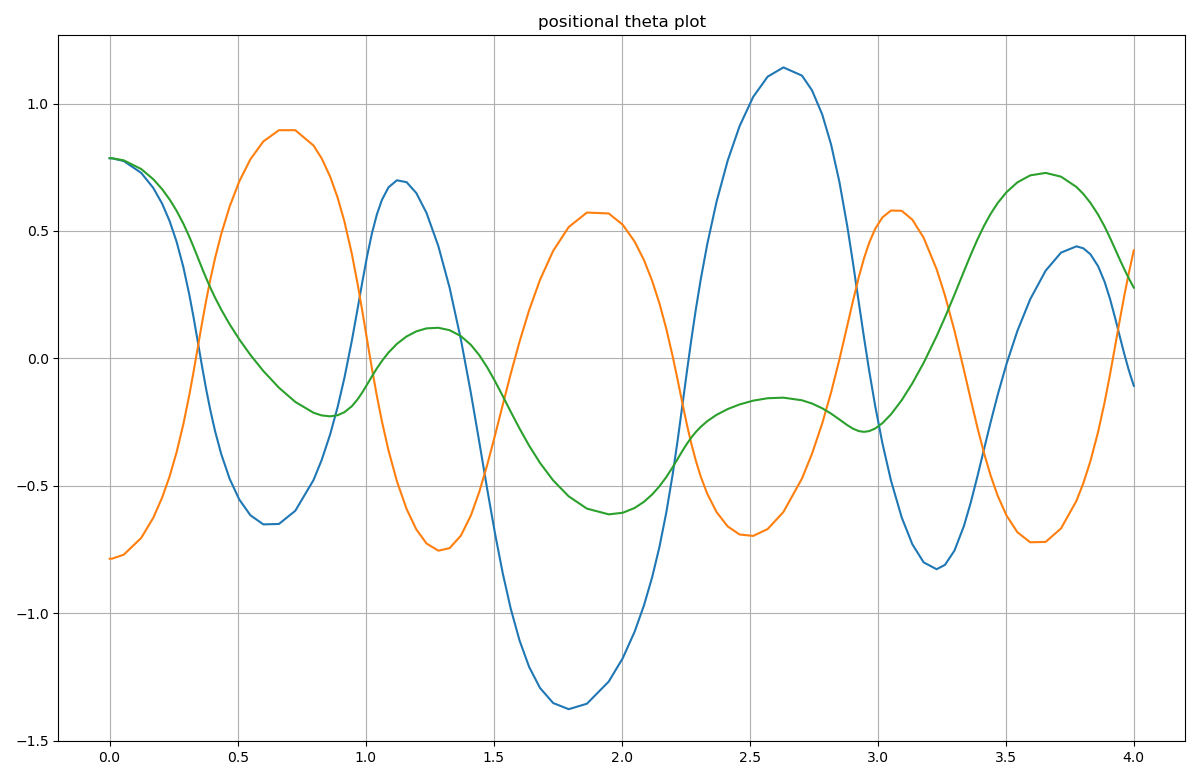
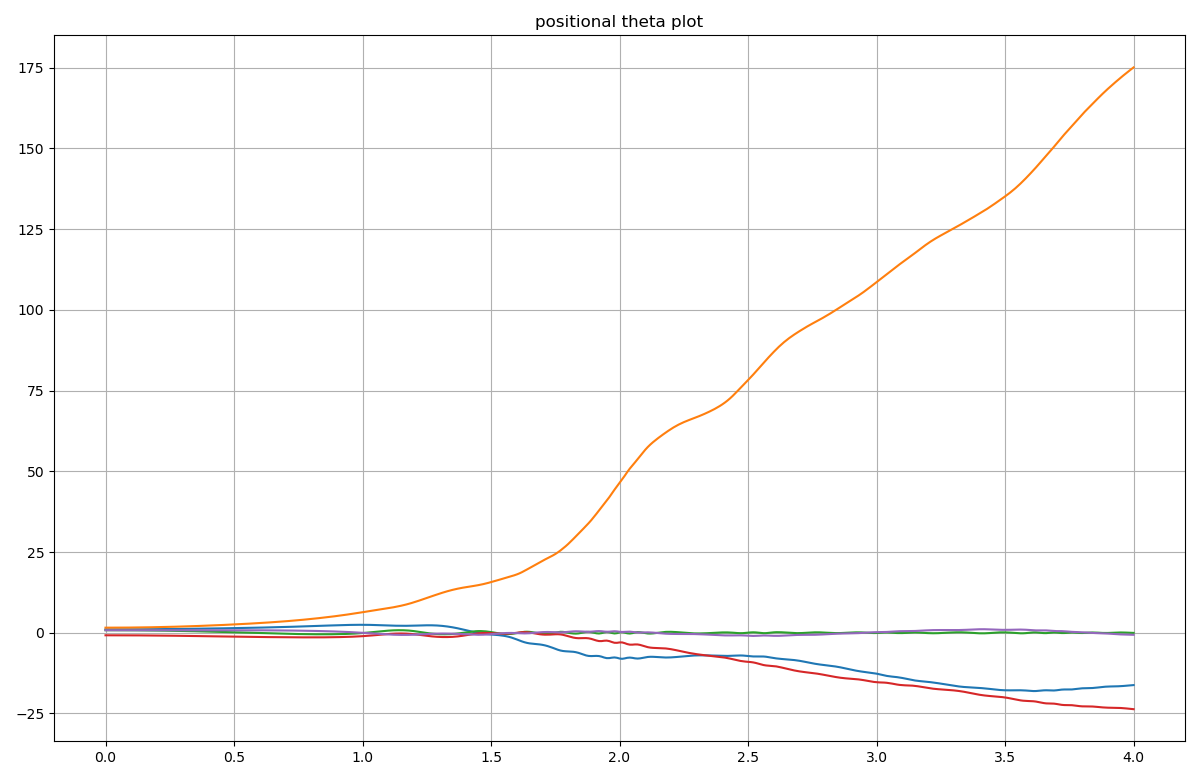
tree runs but doesn't work

diff --git a/src/Tree_forward_dynamics.cpp b/src/Tree_forward_dynamics.cpp
@@ -23,16 +23,15 @@ void SystemOfBodies::EOM__forward_tree(const std::vector<double> &y,
   // dofs of each body
   to_arma_vec(y, p);
 
+  // Sets system gravity, currently hard-coded should ideally be more general.
   p.accel[n](4) = system_gravity;
 
-  // Calling the methods
   const std::vector<std::vector<arma::mat::fixed<6, 6>>> spatial_operator_dt =
       find_spatial_operator_tree(p.theta);
 
   // now we start sweeping n times in total, first kinematics which has in part
   // already been done through the spatial operator, but now velocities
 
-  // the current form is pretty nasty - should consider a rewrite eventually
   for (int k = n - 1; k > -1; --k) {
     p.body_velocities[k] =
         spatial_operator_dt[bodies[k]->parent_ID][get_child_index(k)].t() *
@@ -65,8 +64,8 @@ void SystemOfBodies::EOM__forward_tree(const std::vector<double> &y,
   for (int k = n - 1; k > -1; --k) {
 
     p.accel_plus[k] =
-        spatial_operator_dt[bodies[k]->parent_ID + 1][get_child_index(k)].t() *
-        p.accel[k + 1];
+        spatial_operator_dt[bodies[k]->parent_ID][get_child_index(k)].t() *
+        p.accel[bodies[k]->parent_ID - 1];
     p.theta_ddot[k] = p.frac_v[k] - p.G_fractal[k].t() * p.accel_plus[k];
     p.accel[k] = p.accel_plus[k] +
                  bodies[k]->transpose_hinge_map * p.theta_ddot[k] +
@@ -226,6 +225,8 @@ SystemOfBodies::find_spatial_operator_tree(
   return spatial_operator;
 }
 
+// This method gets the index of a child's id as it is stored in the parent's
+// outboard vector.
 int SystemOfBodies::get_child_index(const int &k_index) const {
   if (k_index >= n - 1) {
     return 0;
@@ -240,21 +241,29 @@ int SystemOfBodies::get_child_index(const int &k_index) const {
   return i;
 }
 
+// int SystemOfBodies::get_each_child(const int& k_index,)
+
 void SystemOfBodies::compute_J_fractal(
     const int &k, forward_parameters &p,
     const std::vector<std::vector<arma::mat::fixed<6, 6>>> &spatial_operator_dt)
     const {
-
-  if (bodies[k]->children_ID.size() == 1) {
+  if (bodies[k]->children_ID[0] == 0) {
     p.J_fractal[k] =
-        spatial_operator_dt[k][0] * p.J_fractal_plus[k] +
+        p.P[k] * coriolis_vector(bodies[k]->transpose_hinge_map,
+                                 p.body_velocities[k], p.theta_dot[k]) +
+        gyroscopic_force_z(bodies[k]->inertial_matrix, p.body_velocities[k]);
+  } else if (bodies[k]->children_ID.size() == 1) {
+    p.J_fractal[k] =
+        spatial_operator_dt[bodies[k]->children_ID[0]][0] *
+            p.J_fractal_plus[bodies[k]->children_ID[0] - 1] +
         p.P[k] * coriolis_vector(bodies[k]->transpose_hinge_map,
                                  p.body_velocities[k], p.theta_dot[k]) +
         gyroscopic_force_z(bodies[k]->inertial_matrix, p.body_velocities[k]);
   } else {
     p.J_fractal[k] = arma::zeros<arma::vec>(6);
     for (size_t i = 0; i < bodies[k]->children_ID.size(); ++i) {
-      p.J_fractal[k] += spatial_operator_dt[k][i] * p.J_fractal_plus[k];
+      p.J_fractal[k] += spatial_operator_dt[bodies[k]->children_ID[i]][0] *
+                        p.J_fractal_plus[bodies[k]->children_ID[i] - 1];
     }
     p.J_fractal[k] +=
         p.P[k] * coriolis_vector(bodies[k]->transpose_hinge_map,
@@ -267,16 +276,20 @@ void SystemOfBodies::compute_p(
     const int &k, forward_parameters &p,
     const std::vector<std::vector<arma::mat::fixed<6, 6>>> &spatial_operator_dt)
     const {
-
-  if (bodies[k]->children_ID.size() == 1) {
-    p.P[k] = spatial_operator_dt[k][0] * p.P_plus[k] *
-                 spatial_operator_dt[k][0].t() +
+  // terminal bodies k_index should always be 0
+  if (bodies[k]->children_ID[0] == 0) {
+    p.P[k] = bodies[k]->inertial_matrix;
+  } else if (bodies[k]->children_ID.size() == 1) {
+    p.P[k] = spatial_operator_dt[bodies[k]->children_ID[0]][0] *
+                 p.P_plus[bodies[k]->children_ID[0] - 1] *
+                 spatial_operator_dt[bodies[k]->children_ID[0]][0].t() +
              bodies[k]->inertial_matrix;
   } else {
     p.P[k] = arma::zeros<arma::mat>(6, 6);
     for (int i = 0; i < bodies[k]->children_ID.size(); ++i) {
-      p.P[k] += spatial_operator_dt[k][i] * p.P_plus[k] *
-                spatial_operator_dt[k][i].t();
+      p.P[k] += spatial_operator_dt[bodies[k]->children_ID[i]][0] *
+                p.P_plus[bodies[k]->children_ID[i] - 1] *
+                spatial_operator_dt[bodies[k]->children_ID[i]][0].t();
     }
     p.P[k] += bodies[k]->inertial_matrix;
   }

diff --git a/src/tests_utils.cpp b/src/tests_utils.cpp
@@ -146,12 +146,13 @@ Vector2 RotatePointAroundPivot(Vector2 point, Vector2 pivot, float angle) {
 
 void test_tree_dynamics() {
 
-  std::array<double, 5> array_hinge_state = {0, -pi / 4, pi / 4, pi / 2, 0};
+  std::array<double, 5> array_hinge_state = {pi / 4, -pi / 4, pi / 4, pi / 2,
+                                             pi / 3};
   auto rec = Rectangle_computed(2.0, 0.1, 0.2, 8.0);
 
   std::array<arma::vec, 5> array_out_vec = {{{0, rec.l / 2, 0},
-                                             {0.05, rec.l / 2, 0},
-                                             {-0.05, rec.l / 2, 0},
+                                             {0, rec.l / 2, 0},
+                                             {0, rec.l / 2, 0},
                                              {0, rec.l / 2, 0},
                                              {0, rec.l / 2, 0}}};
   //    std::cout<<array_out_vec<<std::endl;
@@ -171,6 +172,7 @@ void test_tree_dynamics() {
   system.set_parent(2, 4, true);
   system.set_parent(1, 3, true);
 
+  system.bodies[0]->children_ID[0] = 0;
   system.bodies[4]->set_outboard_position_vec_hinge_push(array_out_vec[1]);
   system.bodies[4]->set_outboard_position_vec_hinge_push(array_out_vec[2]);
   system.bodies[3]->set_outboard_position_vec_hinge_push(array_out_vec[0]);

diff --git a/src/main.cpp b/src/main.cpp
@@ -4,13 +4,13 @@ int main() {
   constexpr int n{100};
 
   // test_single_body_multi_dof();
-  test_three_body_from_course();
+  // test_three_body_from_course();
   // test_n_body_system(n);
   // test_inverse_dynamics_three_body_from_course();
   // test_dense();
   // test_three_body_from_course_with_viz();
   // test_raylib();
-  // test_tree_dynamics();
+  test_tree_dynamics();
 
   return 0;
 }

diff --git a/src/system_of_bodies.cpp b/src/system_of_bodies.cpp
@@ -169,7 +169,7 @@ void SystemOfBodies::prep_system() {
   }
 }
 
-// set's a given bodies uses mathematical indexing (starts at 1 ends at n)
+// sets a given bodies uses mathematical indexing (starts at 1 ends at n)
 void SystemOfBodies::set_parent(const int &idx, const int &parent,
                                 const bool &is_only_child) {
   bodies[idx - 1]->parent_ID = parent;
